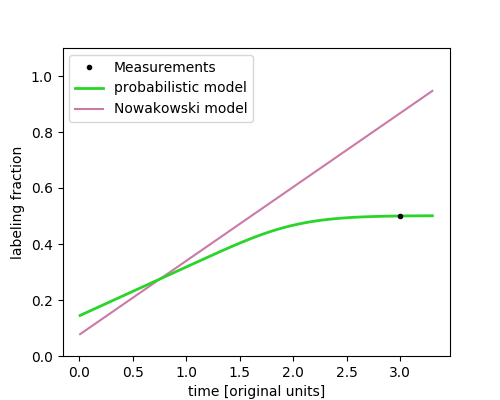
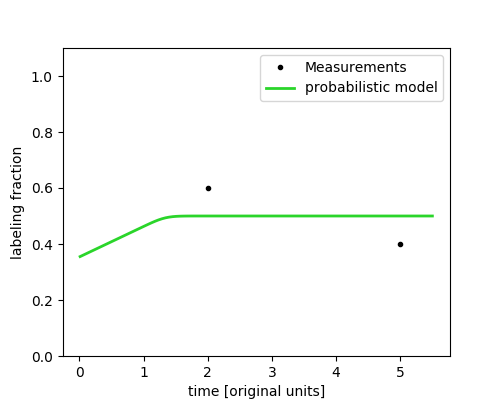
removed Nowakowski plot

diff --git a/backend/fit/clapy.py b/backend/fit/clapy.py
@@ -256,7 +256,6 @@ def web_fit(ncells,times,datas,opath,name):
     fig = plt.figure(1,figsize=(5,4))
 
 
-    tf = np.linspace(0.01,np.max(tim)*1.1,1000)
     tf2 = np.linspace(0.01,np.max(tim)*1.1,100)
     d = dist()
     prob = np.zeros(len(tf2))
@@ -266,7 +265,6 @@ def web_fit(ncells,times,datas,opath,name):
     plt.plot(tim,dat/ncell,'k.',label='Measurements',zorder=4)
     colorp =  np.array([0.5647058823529412, 0.9333333333333333, 0.5647058823529412]) - np.array([0.4,0.1,0.4])
     plt.plot(tf2,prob/nc,label='probabilistic model',color=colorp,lw=2,zorder=2)
-    plt.plot(tf,cla_det_model(tf,fit['Tc']['value'],fit['r']['value'],fit['GF']['value']),label='Nowakowski model',color='#CC79A7',zorder=1)
     plt.ylim(0,1.1)
     plt.legend()
     plt.xlabel('time [original units]')
